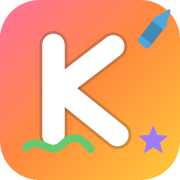
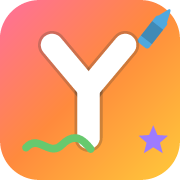
feat: rename Kiddo to Youpi
French name for the whole app (title, manifest, home screen, cache);
the icon's big letter becomes a Y.

Changed region(s): [[0.1944, 0.1667, 0.7778, 0.8333], [0.4167, 0.7778, 0.4722, 0.8333], [0.4722, 0.8333, 0.5, 0.8611]]

diff --git a/index.html b/index.html
@@ -2,7 +2,7 @@
 <html lang="fr">
 <head>
 <meta charset="utf-8">
-<title>Kiddo</title>
+<title>Youpi</title>
 <meta name="viewport" content="width=device-width, initial-scale=1, maximum-scale=1, user-scalable=no, viewport-fit=cover">
 <meta name="description" content="Apprendre et dessiner en s'amusant">
 
@@ -13,7 +13,7 @@
 <meta name="color-scheme" content="light dark">
 <meta name="apple-mobile-web-app-capable" content="yes">
 <meta name="apple-mobile-web-app-status-bar-style" content="default">
-<meta name="apple-mobile-web-app-title" content="Kiddo">
+<meta name="apple-mobile-web-app-title" content="Youpi">
 <link rel="apple-touch-icon" href="./icon-180.png">
 <link rel="icon" href="./icon-192.png">
 
@@ -23,7 +23,7 @@
 
 <!-- ===================== ACCUEIL ===================== -->
 <section id="screen-home" class="screen" aria-label="Accueil">
-  <h1 class="titre-app">Kiddo</h1>
+  <h1 class="titre-app">Youpi</h1>
   <div class="accueil-boutons">
     <button type="button" class="gros-bouton" id="btn-go-lettres">
       <span class="gros-emoji">🔤</span>

diff --git a/sw.js b/sw.js
@@ -1,10 +1,10 @@
-// ===================== Kiddo — Service Worker =====================
+// ===================== Youpi — Service Worker =====================
 // Hors ligne complet une fois installé. En ligne, les fichiers viennent
 // toujours du serveur (le cache ne sert que hors ligne, ou si le réseau ne
 // répond pas en 4 s). Le numéro de version est dans version.js : à augmenter
 // à chaque mise à jour.
 importScripts("./version.js");
-const CACHE_NAME = "kiddo-v" + self.APP_VERSION;
+const CACHE_NAME = "youpi-v" + self.APP_VERSION;
 // Sons enregistrés (audio/…) : cache à part, gardé d'une version à l'autre
 // (le nom historique est conservé pour ne pas retélécharger les sons).
 const CACHE_SONS = "abc-sons";

diff --git a/app.js b/app.js
@@ -1,4 +1,4 @@
-// ===================== Kiddo — app.js =====================
+// ===================== Youpi — app.js =====================
 // Application unique, sans framework, sans build. Toutes les routes sont
 // gérées en montrant/masquant des <section>. Tout est en français.
 

diff --git a/version.js b/version.js
@@ -1,4 +1,4 @@
 // Numéro de version de l'app : À AUGMENTER à chaque mise à jour.
 // Il est affiché sur l'accueil et sert de nom au cache hors ligne (sw.js).
 // Fonctionne dans la page (window) et dans le service worker (self).
-self.APP_VERSION = "13";
+self.APP_VERSION = "14";

diff --git a/README.md b/README.md
@@ -1,4 +1,4 @@
-# Kiddo
+# Youpi
 
 Petite application web hors ligne pour apprendre et jouer,
 pensée pour les 4-5 ans. Pas de dépendance, pas de build, pas de ressource
